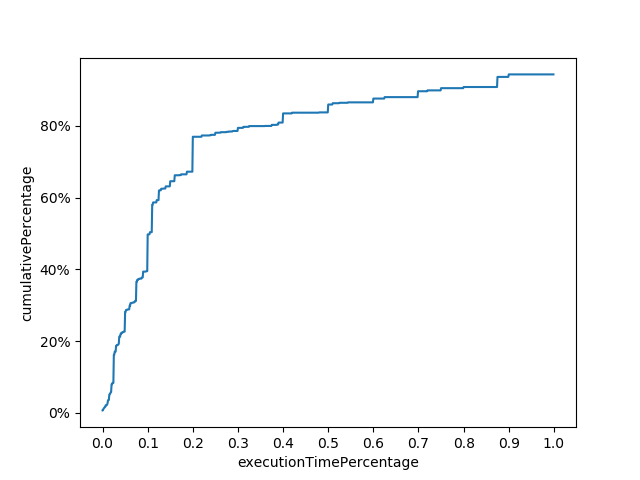
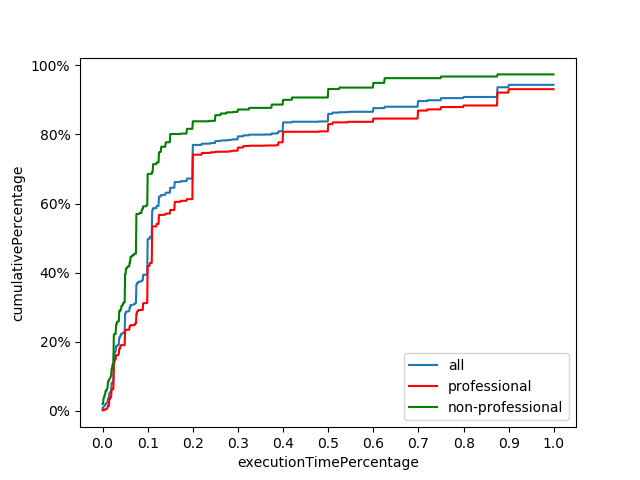
Update cumulative execution time

diff --git a/RQ1_Python/execution_time_cumulative.py b/RQ1_Python/execution_time_cumulative.py
@@ -6,14 +6,26 @@ from matplotlib.ticker import PercentFormatter
 data = pd.read_csv('C:\\Users\\stewue\\OneDrive - Wuersten\\Uni\\19_HS\\Masterarbeit\\Repo\\Evaluation\\RQ1_Results\\aggregated\\executiontime.csv')
 
 filtered = data[data['executionTimePercentage'] != 1]
-x = filtered['executionTimePercentage']
+all = filtered['executionTimePercentage']
+professional = filtered[(filtered['group'] == 'PROFESSIONAL_FEW') | (filtered['group'] == 'PROFESSIONAL_MANY')]['executionTimePercentage']
+notProfessional = filtered[(filtered['group'] == 'NOT_PROFESSIONAL_FEW') | (filtered['group'] == 'NOT_PROFESSIONAL_MANY')]['executionTimePercentage']
 
-values, base = np.histogram(x, bins=1000, range=[0,1], weights=np.ones(len(x)) / len(x))
-cumulative = np.cumsum(values)
-plt.plot(base[:-1], cumulative)
+valuesAll, base = np.histogram(all, bins=1000, range=[0,1], weights=np.ones(len(all)) / len(all))
+cumulativeAll = np.cumsum(valuesAll)
+plt.plot(base[:-1], cumulativeAll, label="all")
+
+valuesProfessional, base = np.histogram(professional, bins=1000, range=[0,1], weights=np.ones(len(professional)) / len(professional))
+cumulativeProfessional = np.cumsum(valuesProfessional)
+plt.plot(base[:-1], cumulativeProfessional, color='red', label="professional")
+
+valuesNotProfessional, base = np.histogram(notProfessional, bins=1000, range=[0,1], weights=np.ones(len(notProfessional)) / len(notProfessional))
+cumulativeNotProfessional = np.cumsum(valuesNotProfessional)
+plt.plot(base[:-1], cumulativeNotProfessional, color='green', label="non-professional")
+
 plt.gca().yaxis.set_major_formatter(PercentFormatter(1))
 plt.xlabel('executionTimePercentage')
 plt.ylabel('cumulativePercentage')
 plt.xticks(np.arange(0, 1.1, step=0.1))
+plt.legend()
 #plt.show()
 plt.savefig('export.png')
